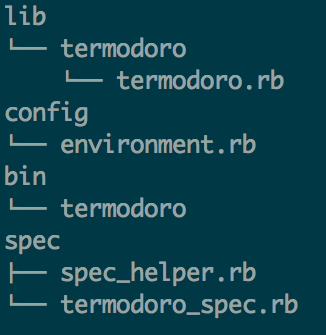
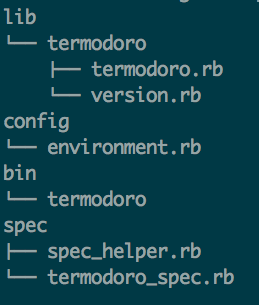
up to slide 16. about 2 big sections left

diff --git a/impress_presentation/impress.js/index.html b/impress_presentation/impress.js/index.html
@@ -40,6 +40,23 @@
             <p>- Changelog</p>
     </div>
 
+    <div id="2-2" class="step" data-x="1000" data-y="-550">
+        <img src="../img/rake_release.png" />
+    </div>
+
+    <div id="2-3" class="step" data-x="1000" data-y="0">
+        <h1>The Basics</h1>
+            <p>- Bundler and Rake will be your friends for this, as always</p>
+            <p>- Directory structure / naming conventions</p>
+            <p>---> <strong>Global load path</strong></p>
+            <p>- Smart gemspec file</p>
+            <p>- Changelog</p>
+    </div>
+
+    <div id="2-5" class="step" data-x="1000" data-y="550">
+        <img src="../img/dir-tree.png" />
+    </div>
+
     <div id="3" class="step" data-x="2000" data-y="0">
         <h1>Global Load Path</h1>
             <p>- Your gem's <code>lib</code> directory will be added to the load path</p>
@@ -53,52 +70,79 @@
             <p>- Keep it smart </p>
     </div>
 
-    <div id="5" class="step" data-x="4000" data-y="0">
+    <div id="5" class="step" data-x="3000" data-y="-500" data-rotate-x="45">
         <img src="../img/gemspec.png"/>
     </div>
 
-    <div id="5-1" class="step" data-x="5000" data-y="0">
+    <div id="6" class="step" data-x="5000" data-y="0">
         <h1>Changelog</h1>
             <p>Important and fun. Like reading an old diary from when you were a dumbass kid. Learn from your past.</p>
             <p>- Brings us to version tracking...</p>
     </div>
 
-    <div id="7" class="step" data-x="0" data-y="0">
-        <h1>Gem Presentation Title</h1>
+    <div id="5-2" class="step" data-x="4000" data-y="500" data-rotate-y="30">
+        <img src="../img/changelog.png" />
     </div>
 
-    <div id="8" class="step" data-x="0" data-y="0">
-        <h1>Gem Presentation Title</h1>
+    <div id="6-5" class="step" data-x="5000" data-y="0">
+        <h1>Changelog</h1>
+            <p>Important and fun. Like reading an old diary from when you were a dumbass kid. Learn from your past.</p>
+            <p>- Brings us to version tracking...</p>
     </div>
 
-    <div id="9" class="step" data-x="0" data-y="0">
-        <h1>Gem Presentation Title</h1>
+    <div id="7" class="step" data-x="6000" data-y="0">
+        <h1>Semantic Versioning</h1>
+            <img src="../img/semver.png" />
+            <p>^ from <a href="http://semver.org/">http://semver.org</a></p>
     </div>
 
-    <div id="10" class="step" data-x="0" data-y="0">
-        <h1>Gem Presentation Title</h1>
+    <div id="8" class="step" data-x="6000" data-y="0" data-z="-1000" data-rotate-x="45" >
+        <h1>In Practice...</h1>
+        <img src="../img/version-module.png" />
+        <img src="../img/gemspec-version.png" />
     </div>
 
-    <div id="11" class="step" data-x="0" data-y="0">
-        <h1>Gem Presentation Title<h1>
+    <div id="9" class="step" data-x="7000" data-y="0">
+        <p>Aside from making the .gemspec smarter, this bakes the concept of your gem's version right into the code.</p>
+        <p>You want the version to be an aspect of the software, not the distribution platform</p>
     </div>
 
-    <div id="12" class="step" data-x="0" data-y="0">
-        <h1>Gem Presentation Title<h1>
+    <div id="10" class="step" data-x="9000" data-y="800" data-rotate-x="90">
+        <h1>Travis - Continuous Integration</h1>
+        <p><img src="../img/build-passing.png" />
+        <-- You ever look at that and wonder what it means?<p/>
     </div>
 
-    <div id="13" class="step" data-x="0" data-y="0">
-        <h1>Gem Presentation Title<h1>
+    <div id="11" class="step" data-x="10000" data-y="800" data-z="600" data-rotate-x="90">
+        <p>Project is built in a number of different contexts at every commit.</p>
+        <p>If something (or someone) breaks the software you'll know immediately</p>
     </div>
 
-    <div id="14" class="step" data-x="0" data-y="0">
-        <h1>Gem Presentation Title<h1>
+    <div id="12" class="step" data-x="10000" data-y="400" data-rotate-y="-45">
+        <img src="../img/travis_web.png" />
     </div>
 
-    <div id="15" class="step" data-x="0" data-y="0">
-        <h1>Gem Presentation Title<h1>
+    <div id="13" class="step" data-x="11000" data-y="-500" data-scale="3">
+        <h1>TESTING!<h1>
     </div>
 
+    <div id="14" class="step" data-x="12000" data-y="-500" data-scale="3">
+        <p>- Always important. More so in this context.</p>
+        <p>- New reasons to test... </p>
+    </div>
+
+    <div id="15" class="step" data-x="14000" data-y="-500" data-scale="1">
+        <p>1. Allows potential users to verify that your code is not borked.</p>
+        <p>2. Facilitates easy contribution (we'll come back to this soon).</p>
+        <p>3. Easily get a sense of the API ("it should make you a pizza. it should ask what toppings you want.") thanks to RSpec's nice readable format. (we'll come back to this even sooner)</p>
+    </div>
+
+    <div id="16" class="step" data-x="14000" data-y="100" data-scale="2">
+        <p>Added bonus: Use Simplecov!</p>
+        <p>Seeing 100% coverage on passing tests and knowing you're shipping a reliable gem is just a nice feeling...</p>
+    </div>
+
+    
 
 
 
